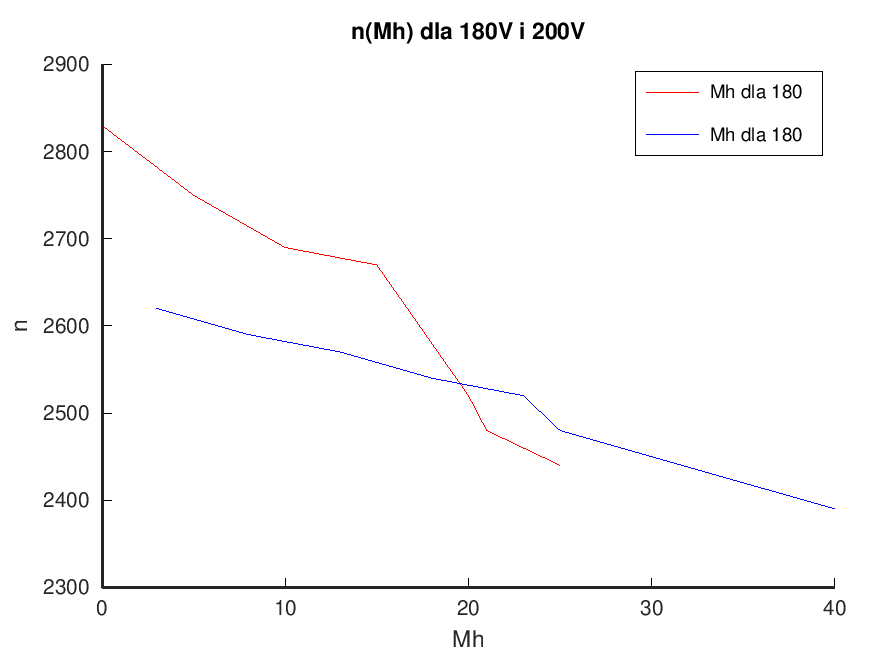
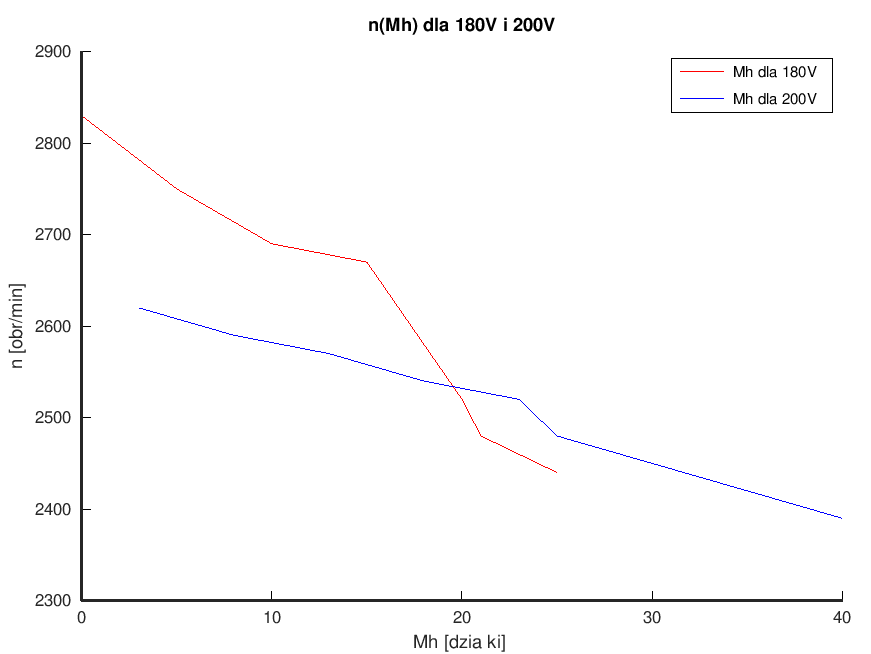
improve

diff --git a/pw-octave/elo/elo-8.m b/pw-octave/elo/elo-8.m
@@ -89,36 +89,36 @@ cos_phi_200 = cos_phi_200 * 0.01;
 
 figure(1);
 hold on;
-set(gca, "linewidth", 4, "fontsize", 10);
+set(gca, "linewidth", 4, "fontsize", 8);
 p1 = plot(Mh_180, n_180, 'r-');
 p2 = plot(Mh_200, n_200, 'b-');
-xlabel ("Mh");
-ylabel ("n");
-legend("Mh dla 180","Mh dla 180");
+xlabel ("Mh [działki]");
+ylabel ("n [obr/min]");
+legend("Mh dla 180V","Mh dla 200V");
 title ("n(Mh) dla 180V i 200V");
 hold off;
 saveas(gcf, 'cw8-1.png');
 
 figure(2);
 hold on;
-set(gca, "linewidth", 4, "fontsize", 10);
+set(gca, "linewidth", 4, "fontsize", 8);
 p1 = plot(Mh_180, I_180, 'r-');
 p2 = plot(Mh_200, I_200, 'b-');
-xlabel ("Mh");
-ylabel ("I");
-legend("Mh dla 180","Mh dla 200");
+xlabel ("Mh [działki]");
+ylabel ("I [mA]");
+legend("Mh dla 180V","Mh dla 200V");
 title ("I(Mh) dla 180V i 200V");
 hold off;
 saveas(gcf, 'cw8-2.png');
 
 figure(3);
 hold on;
-set(gca, "linewidth", 4, "fontsize", 10);
+set(gca, "linewidth", 4, "fontsize", 8);
 p1 = plot(Mh_180, cos_phi_180, 'r-');
 p2 = plot(Mh_200, cos_phi_200, 'b-');
-xlabel ("Mh");
+xlabel ("Mh [działki]");
 ylabel ("cos phi");
-legend("Mh dla 180","Mh dla 200");
+legend("Mh dla 180V","Mh dla 200V");
 title ("cos phi (Mh) dla 180V i 200V");
 hold off;
 saveas(gcf, 'cw8-3.png');
@@ -218,23 +218,23 @@ I_160 = [
 
 figure(4);
 hold on;
-set(gca, "linewidth", 4, "fontsize", 10);
+set(gca, "linewidth", 4, "fontsize", 8);
 p1 = plot(Mh_150, n_150, 'r-');
 p2 = plot(Mh_160, n_160, 'b-');
-xlabel ("Mh");
-ylabel ("n");
-legend("Mh dla 150","Mh dla 160");
+xlabel ("Mh [działki]");
+ylabel ("n [obr/min]");
+legend("Mh dla 150V","Mh dla 160V");
 title ("n(Mh) dla 150V i 160V");
 hold off;
 saveas(gcf, 'cw8-4.png');
 
 figure(5);
 hold on;
-set(gca, "linewidth", 4, "fontsize", 10);
+set(gca, "linewidth", 4, "fontsize", 8);
 p1 = plot(Mh_150, I_150, 'r-');
 p2 = plot(Mh_160, I_160, 'b-');
-xlabel ("Mh");
-ylabel ("I");
+xlabel ("Mh [działki]");
+ylabel ("I [mA]");
 legend("Mh dla 150","Mh dla 160");
 title ("I(Mh) dla 150V i 160V");
 hold off;
